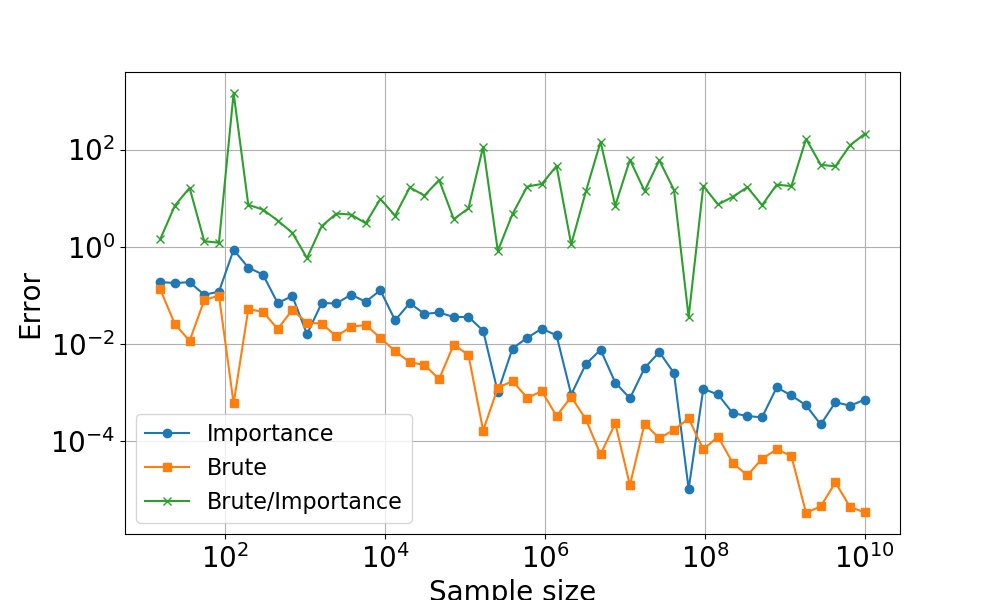
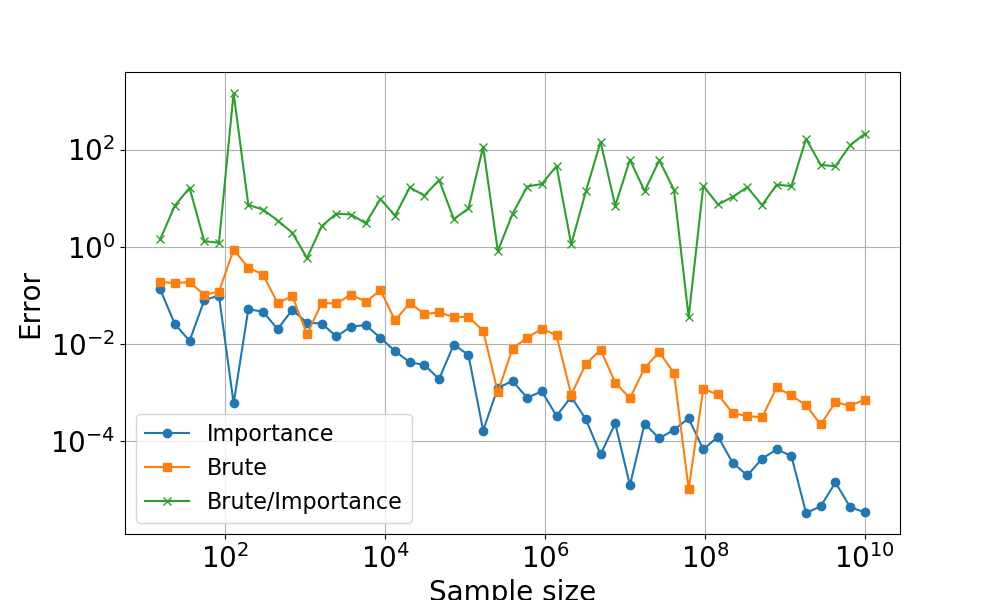
Fix wrong lable in monte-carlo error plot

Changed region(s): [[0.155, 0.39, 0.868, 0.84], [0.775, 0.78, 0.868, 0.87], [0.527, 0.54, 0.558, 0.57]]

diff --git a/Project3/src/python/post_process.py b/Project3/src/python/post_process.py
@@ -62,6 +62,7 @@ if __name__ == '__main__':
     gauss['error_lag'] = np.abs(gauss['error_lag'])
     gauss['error_leg'] = np.abs(gauss['error_leg'])
 
+
     #### Monte-Carlo results
 
     # Loglog standard deviation
@@ -77,7 +78,7 @@ if __name__ == '__main__':
 
     # Loglog plot of error
     error_ratio = mc['error_brute_pl']/mc['error_importance']
-    ys = [mc['error_brute_pl'],mc['error_importance'],error_ratio]
+    ys = [mc['error_importance'],mc['error_brute_pl'],error_ratio]
     ylabel = 'Error'
     file = 'mc_error.png'
     plot(x,ys,labels,markers,xlabel,ylabel,file)
